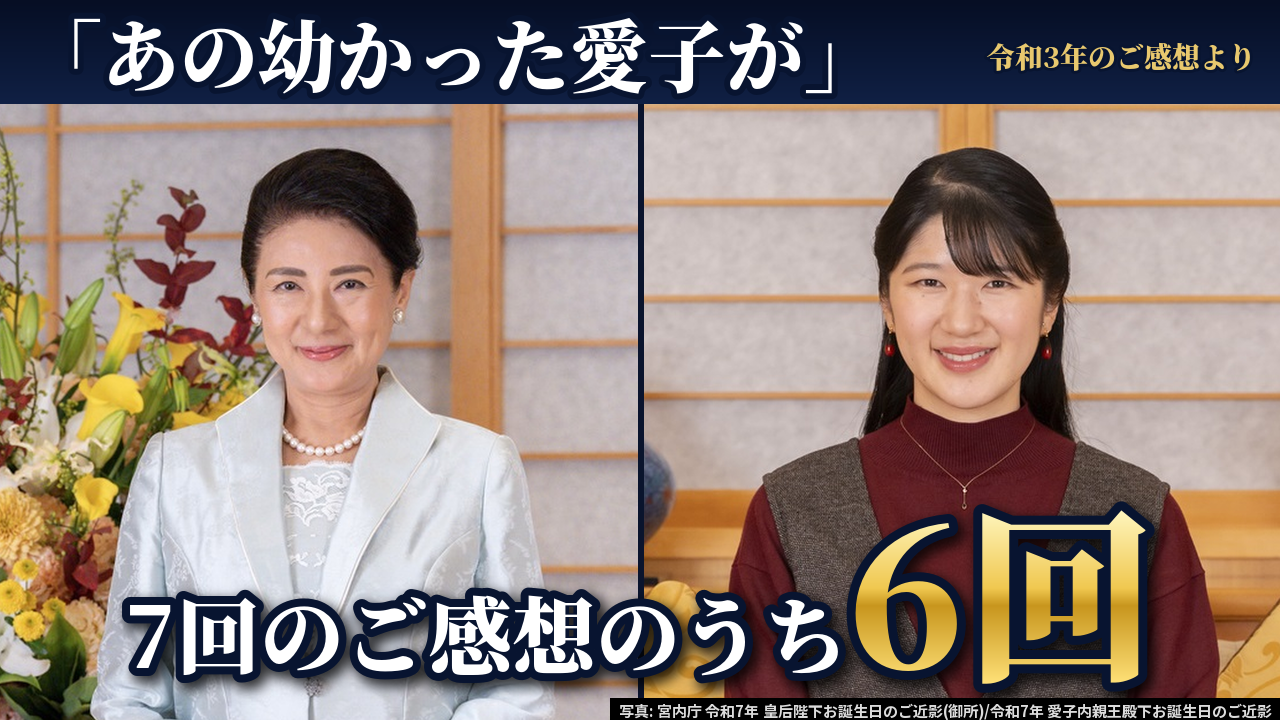
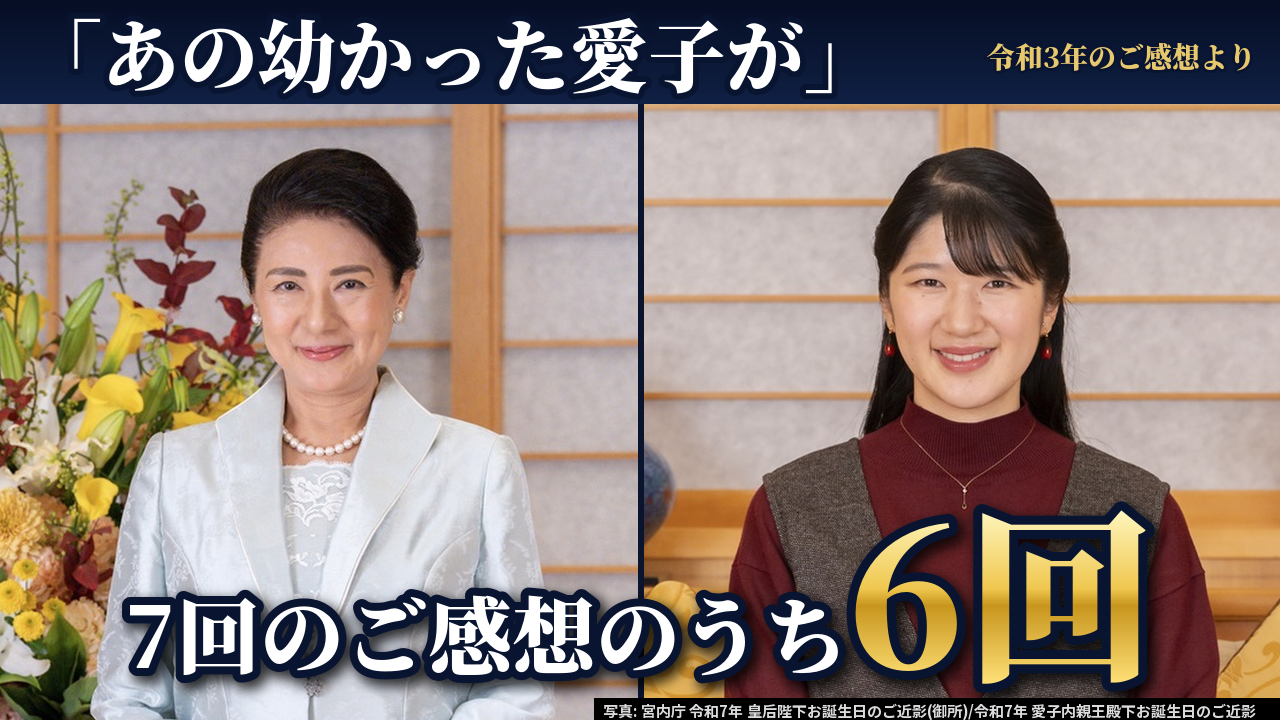
L4 表紙B・Cの直し
Claude-Session: https://claude.ai/code/session_01BJaPieHBuTRAAQkfULpzEX

Changed region(s): [[0.4375, 0.9778, 1.0, 1.0]]

diff --git a/projects/KB-20261125-01/thumb/make_thumbs.py b/projects/KB-20261125-01/thumb/make_thumbs.py
@@ -9,7 +9,8 @@ python3 projects/KB-20261125-01/thumb/make_thumbs.py で thumb_A.png・thumb_B.p
 の2か所にした(金の帯は文字が3か所目になるため使わない)。
   A = 左 雅子さま A025(令和7年 皇后陛下お誕生日のご近影)/右 愛子さま A057(令和7年 愛子内親王殿下お誕生日のご近影)
   B = 令和7年 新年のご一家のご近影 A073 から、左に雅子さま・右に愛子さま(お二人が同じ1枚に写る写真)
-  C = 左 平成14年 東宮御所の雅子さまと1歳の愛子さま A065 /右 令和4年3月17日 ご成年の記者会見の愛子さま A061
+  C = 左 雅子さま A021(令和6年 皇后陛下お誕生日のご近影)/右 令和4年3月17日 ご成年の記者会見の愛子さま A061
+2026-11-25 直し係(rules_check.md 12. G6 の指摘): B の帯右を出典の形にし、陛下のお召し物が出ない切り抜きに。C の左を A065(338px)から A021(1000px)に。クレジットの右余白を 24px に。
 """
 import sys
 from pathlib import Path
@@ -24,6 +25,7 @@ O = str(Path(__file__).resolve().parent) + "/"
 BAND = 104          # 上の帯の高さ
 BASE = 668          # 下の一言のベースライン
 SRC_GOLD = (232, 200, 110)
+CREDIT_RIGHT = 24   # クレジットの右の余白(G6 の指摘で 20px以上に)
 
 
 def panel(path, focus, fh=175, extra=(), target=(320, 305)):
@@ -58,7 +60,7 @@ def d2(out, left, right, quote, src, parts, cap):
         text(im, (x, BASE), s, n, fill=fill, sw=9 if fill == "gold" else 8, anchor="ls")
         boxes.append(ImageDraw.Draw(im).textbbox((x, BASE), s, font=F(n), anchor="ls", stroke_width=9)); x += w
     bottom = (int(min(b[0] for b in boxes)), int(min(b[1] for b in boxes)), int(max(b[2] for b in boxes)), int(max(b[3] for b in boxes)))
-    credit(im, cap, [bottom, (0, 0, W, BAND)])
+    credit(im, cap, [bottom, (0, 0, W, BAND)], right=CREDIT_RIGHT)
     im.save(out)
     print(out, "帯の文字", qs, "px / 下の一言の枠", bottom)
     if not check_faces(out, faces, [(0, 0, W, BAND), bottom]):
@@ -73,20 +75,27 @@ d2(O + "thumb_A.png", (A + "A025.jpg", None), (A + "A057.jpg", None),
    "写真: 宮内庁 令和7年 皇后陛下お誕生日のご近影(御所)/令和7年 愛子内親王殿下お誕生日のご近影")
 
 # B 数字・事実型(題名B): 令和7年 新年をお迎えになったご一家のご近影(A073・御所)から、左に雅子さま・右に愛子さま
-#   お二人が同じ1枚に写る写真(第5-3章5「相手と一緒の写真を優先」)。中央の天皇陛下のお顔はどちらのパネルにも入らない
-d2(O + "thumb_B.png", (A + "A073.jpg", (546.5 / 1800, 357.5 / 1200, 133 / 1200)),
-   (A + "A073.jpg", (1245.5 / 1800, 342.5 / 1200, 127 / 1200)),
-   "18歳から24歳まで", "雅子さまのご感想に書かれた愛子さま",
+#   お二人が同じ1枚に写る写真(第5-3章5「相手と一緒の写真を優先」)。中央の天皇陛下はお顔もお召し物もどちらのパネルにも入れない:
+#   元の写真で陛下のお召し物は x約690〜1090。左パネルの右端を x約686、右パネルの左端を x約1094 で切るため、
+#   お顔の位置を境目寄り(左パネル x457・右パネル x209)に置く。大きさ(約175px)と高さ(y305)は型Dのまま
+#   帯の右は出典(令和元年〜令和7年の7回のご感想 = K1〜K7)。文字は 上の帯10字＋下の一言6字＝16字の2か所
+B_L, B_R = (546.5, 357.5, 133), (1245.5, 342.5, 127)
+d2(O + "thumb_B.png", (A + "A073.jpg", (B_L[0] / 1800, B_L[1] / 1200, B_L[2] / 1200), 175, (), (round(640 - (686 - B_L[0]) * 175 / B_L[2]), 305)),
+   (A + "A073.jpg", (B_R[0] / 1800, B_R[1] / 1200, B_R[2] / 1200), 175, (), (round((B_R[0] - 1094) * 175 / B_R[2]), 305)),
+   "18歳から24歳まで", "令和元年〜令和7年のご感想より",
    [("7回", 200, "gold"), ("のご感想", 112, "white")],
    "写真: 宮内庁 令和7年 新年をお迎えになったご一家のご近影(御所)")
 
-# C 母と娘の物語型(題名C): 左 平成14年 東宮御所の雅子さまと1歳の愛子さま(A065・写真:宮内庁)/右 ご成年の記者会見(A061)
+# C 母と娘の物語型(題名C): 左 雅子さま(令和6年 皇后陛下お誕生日のご近影 A021・長辺1000px)/右 ご成年の記者会見の愛子さま(A061)
+#   左は G6 の指摘で A065(平成14年・長辺338px)から差し替え。台帳の平成14年の写真はどれも長辺240〜338pxで主役に使えないため、
+#   「生まれてきてありがとう」を語られた雅子さまお一人のご近影にした(表紙A の A025・表紙B の A073 とは別の写真)。
+#   言葉は平成14年・写真は令和6年なので、帯の出典「平成14年の会見より」とクレジット「令和6年」で年を分けて示す
 #   右の A061 は縦長の写真で、型Dの大きさ(175px)だとパネルの左右にぼかしの余白が出るため、お顔を約215px・y約333 にしてパネルの幅いっぱいにした
 #   (頭の範囲は上の帯と下の一言の間に収まる。check_faces で確認)
-#   左は雅子さまのお顔を型Dの位置に置き、抱かれている愛子さまのお顔も check_faces にかける。天皇陛下(当時 皇太子殿下)のお顔はパネルの外
 #   帯 =「生まれてきてありがとう」(平成14年4月2日 御誕生につき記者会見の原文の一部)。下 = およそ「20年後」の言葉
-d2(O + "thumb_C.png", (A + "A065.jpg", (222 / 338, 52 / 240, 52 / 240), 175, [(153, 56, 45, 45)]),
+#   左の A021 は等倍(お顔 約175px)。型Dの x320 だとパネル右端に約28pxのぼかしの余白が出るため、x350 に置いて写真でパネルを埋めた
+d2(O + "thumb_C.png", (A + "A021.jpg", None, 175, (), (350, 305)),
    (A + "A061.jpg", None, 215, (), (326, 333)),
    "「生まれてきてありがとう」", "平成14年の会見より",
    [("およそ", 92, "white"), ("20年後", 172, "gold"), ("の言葉", 92, "white")],
-   "写真: 宮内庁 平成14年 東宮御所(1歳のお誕生日)/令和4年3月17日 ご成年の記者会見(御所大広間)")
+   "写真: 宮内庁 令和6年 皇后陛下お誕生日のご近影(御所)/令和4年3月17日 ご成年の記者会見(御所大広間)")

diff --git a/pipeline/thumb_long.py b/pipeline/thumb_long.py
@@ -115,11 +115,11 @@ def gold_band(im, box, s, size):
     text(im, ((x0 + x1) // 2, (y0 + y1) // 2), s, size, fill=NAVY, stroke=(255, 240, 190), sw=2, shadow=False, anchor="mm", maxw=x1 - x0 - 30)
 
 
-def credit(im, s, boxes=()):
-    """写真の出典(右下・小さく)。文字・帯の枠と重ならないことを確かめる(荒木指示 2026-11-24)"""
+def credit(im, s, boxes=(), right=8):
+    """写真の出典(右下・小さく)。文字・帯の枠と重ならないことを確かめる(荒木指示 2026-11-24)。right=文字の右の余白px(既定8。表紙の確認で20px以上を求められたら渡す)"""
     d = ImageDraw.Draw(im); f = ImageFont.truetype("/usr/local/share/fonts/noto-sans-jp/NotoSansJP-Bold.ttf", 15)
-    w = d.textlength(s, font=f); box = (W - w - 16, H - 22, W, H)
-    d.rectangle(box, fill=(0, 0, 0)); d.text((W - w - 8, H - 21), s, font=f, fill=(220, 220, 220))
+    w = d.textlength(s, font=f); box = (W - w - right - 8, H - 22, W, H)
+    d.rectangle(box, fill=(0, 0, 0)); d.text((W - w - right, H - 21), s, font=f, fill=(220, 220, 220))
     hit = [b for b in boxes if box[0] < b[2] and box[2] > b[0] and box[1] < b[3] and box[3] > b[1]]
     if hit:
         raise SystemExit(f"クレジットが文字と重なっています: {hit}")

diff --git a/projects/KB-20261125-01/fixes.md b/projects/KB-20261125-01/fixes.md
@@ -134,3 +134,22 @@
 3. 059 は2カット(各5.94秒)。1カット目の A004 は令和2年のご近影で、「7回」のうちの1回として年を表示
 4. 任意の指摘(035/037 の A061 を「顔の寄り」に、043 の出典の置き方)は今回触っていない。前回の「まだ残る点」5〜8 もそのまま
 5. 語りを直した 059 と、写真を替えた 009・019・020・041・043・045・046・047・051 は、決まりの確認係・事実確認係・当てっこ係の再点検が要る
+
+---
+
+## 表紙の直し(2026-11-25・直し係・rules_check.md「12. 表紙・題名・説明文(G6)」の指摘)
+
+scenes.json・output/ には触っていない(書き出し中)。表紙3枚を `python3 projects/KB-20261125-01/thumb/make_thumbs.py` で作り直した。
+
+| 表紙 | 指摘 | 直した内容 |
+|---|---|---|
+| B | 帯右の小さい金の文「雅子さまのご感想に書かれた愛子さま」が出典でなく、文字が実質3か所・32字 | 出典の形「令和元年〜令和7年のご感想より」に替えた(K1〜K7 の7回)。文字は 上の帯「18歳から24歳まで」10字＋下「7回のご感想」6字＝2か所・16字 |
+| B | 左右の境目に天皇陛下のお召し物(首から下の濃い塊)が残る | 同じ A073 のまま切り抜きを変更。元の写真でお召し物は x約690〜1090 なので、左パネルを x約686 まで・右パネルを x約1094 からにし、お顔を境目寄り(画面の x457・x849)に置いた。大きさ約175px・高さ y305 は型Dのまま。境目付近(x560〜720)に濃い色が残らないことを画素でも確認(残るのは境目の線だけ) |
+| C | 左 A065(長辺338px)は「主役の写真は長辺1000px以上」を満たさない | 左を A021(令和6年 皇后陛下お誕生日のご近影・御所・667×1000・雅子さまお一人・照合済み「ページ説明文＋目視確認済(当てっこ係)」)に差し替え。等倍で使用。表紙A(A025・A057)・B(A073)とは別の写真。クレジットは「令和6年 皇后陛下お誕生日のご近影(御所)/令和4年3月17日 ご成年の記者会見(御所大広間)」 |
+| A・B・C | クレジットの右余白が約5px | 3枚とも約25pxに(実測)。pipeline/thumb_long.py の credit に引数 right を足した(既定は元の8pxで、ほかの制作番号の表紙は変わらない) |
+
+- 検査: check_faces(お顔の頭の範囲と文字・画面端)3枚とも「顔の位置 OK」。credit(クレジットと文字の重なり)3枚とも通過。3枚とも画像を開いて目で確認した
+- 更新したファイル: thumb/make_thumbs.py・thumb/thumb_A.png・thumb_B.png・thumb_C.png・thumb.yaml(photos・patterns・note)・publish.yaml(ab_tests の B・C の photo と thumb_text)・pipeline/thumb_long.py(credit の right)
+- **要確認(荒木/確認係)**: 表紙C は言葉が平成14年・写真が令和6年。帯の出典「平成14年の会見より」とクレジット「令和6年」で年は分かるが、平成14年の写真ではなくなった(台帳の平成14年の写真はどれも長辺240〜338px)
+- **要確認(確認係)**: 表紙B はお顔が各パネルの中央(x320)ではなく境目寄り。表紙C の左も x350(x320 だとパネル右端に約28pxのぼかしの余白が出るため)。型Dの「お顔はパネル中央」からのずれを許すか
+- 触っていない点: 説明文の画像クレジットと「18才」(説明文係の担当)。A065 は本編の写真としては台帳に残したまま
